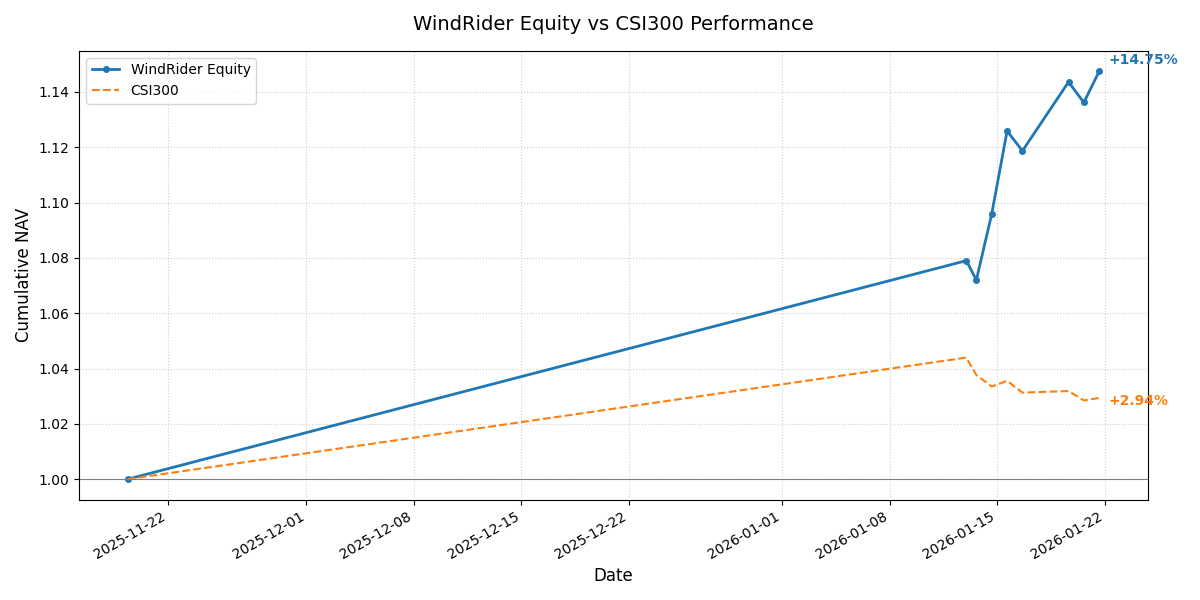
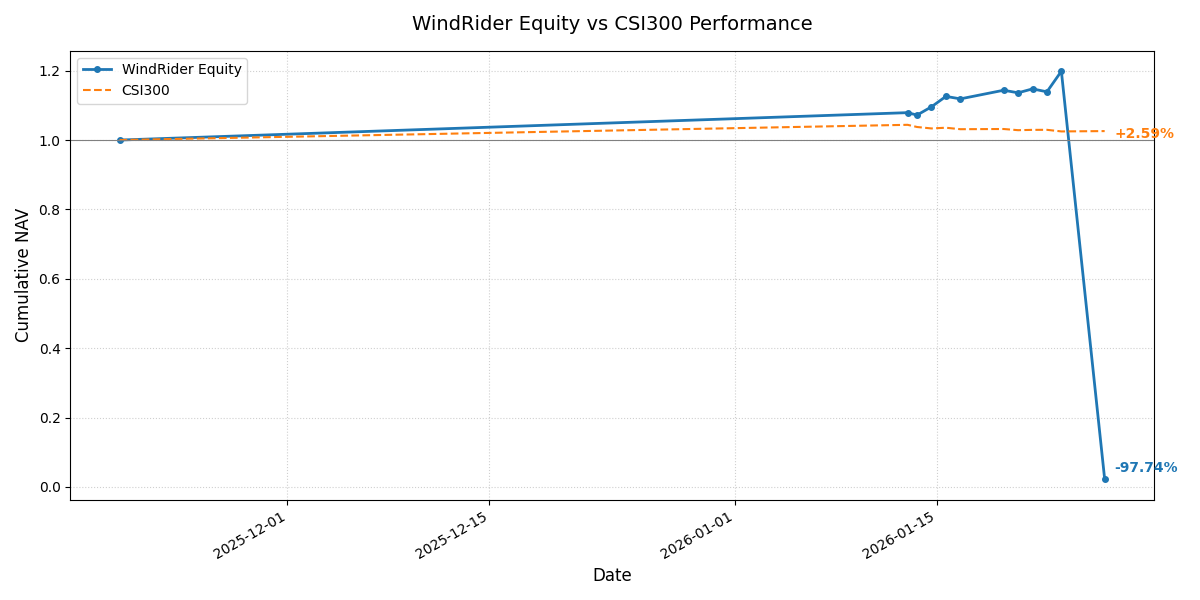
Updated Hugo site content

diff --git a/public/investment/position/index.html b/public/investment/position/index.html
@@ -66,8 +66,8 @@
   <meta property="og:locale" content="zh-cn">
   <meta property="og:type" content="article">
     <meta property="article:section" content="investment">
-    <meta property="article:published_time" content="2026-01-21T15:11:15+08:00">
-    <meta property="article:modified_time" content="2026-01-21T15:11:15+08:00">
+    <meta property="article:published_time" content="2026-01-26T15:55:08+08:00">
+    <meta property="article:modified_time" content="2026-01-26T15:55:08+08:00">
 <meta name="twitter:card" content="summary">
 <meta name="twitter:title" content="持仓 Position">
 <meta name="twitter:description" content="WindRider Stock Portfolio">
@@ -103,11 +103,11 @@
   "keywords": [
     
   ],
-  "articleBody": " 风舵股票组合 /// 每日持仓 WindRider Equity Portfolio 净值简报 (截至: 2026-01-21)\n指数代码： WDR.EQ 成立日期： 2025-11-19 最新净值： 1.1475 今日涨跌： +0.99% ===========================\n核心表现 累计收益： +14.75% 年化收益： +121.91% 最大回撤： -0.65% 基准点位： 4723.07 (CSI300) 策略状态： 运行中 持仓明细 股票名称 成本价 现价 盈亏 占比 先导智能 300450 49.41 58.91 +19.22% 50.7% 新 和 成 002001 24.77 27.49 +10.97% 47.32% 收益率对比曲线 声明：本页面数据为实盘记录，持仓数据每日收盘后更新。\n数据仅供技术交流，不构成投资建议。\n",
-  "wordCount" : "53",
+  "articleBody": " 风舵股票组合 /// 每日持仓 WindRider Equity Portfolio 净值简报 (截至: 2026-01-26)\n指数代码： WDR.EQ 成立日期： 2025-11-19 最新净值： 0.0226 今日涨跌： -98.11% ===========================\n核心表现 累计收益： -97.74% 年化收益： -100.00% 最大回撤： -98.11% 基准点位： 4706.96 (CSI300) 策略状态： 已运行 69 天 持仓明细 股票名称 成本价 现价 盈亏 占比 先导智能 300450 49.41 61.89 +25.25% 51.5% 新 和 成 002001 24.77 28.00 +13.03% 46.6% 收益率对比曲线 声明：本页面数据为实盘记录，持仓数据每日收盘后更新。\n数据仅供技术交流，不构成投资建议。\n",
+  "wordCount" : "55",
   "inLanguage": "zh-cn",
-  "datePublished": "2026-01-21T15:11:15+08:00",
-  "dateModified": "2026-01-21T15:11:15+08:00",
+  "datePublished": "2026-01-26T15:55:08+08:00",
+  "dateModified": "2026-01-26T15:55:08+08:00",
   "mainEntityOfPage": {
     "@type": "WebPage",
     "@id": "https://hankou.com/investment/position/"
@@ -191,7 +191,7 @@
     <div class="post-description">
       WindRider Stock Portfolio
     </div>
-    <div class="post-meta"><span title='2026-01-21 15:11:15 +0800 CST'>January 21, 2026</span>
+    <div class="post-meta"><span title='2026-01-26 15:55:08 +0800 CST'>January 26, 2026</span>
 
 </div>
   </header> 
@@ -200,7 +200,7 @@
 </style>
 <h3 id="风舵股票组合--每日持仓">风舵股票组合   <span style="color: #E63946; font-weight: bold;">/</span><span style="color: #F1A73E; font-weight: bold;">/</span><span style="color: #000091; font-weight: bold;">/</span>   每日持仓<a hidden class="anchor" aria-hidden="true" href="#风舵股票组合--每日持仓">#</a></h3>
 <p>WindRider Equity Portfolio <br>
-净值简报 <small>(截至: 2026-01-21)</small></p>
+净值简报 <small>(截至: 2026-01-26)</small></p>
 <table>
   <thead>
       <tr>
@@ -219,11 +219,11 @@
       </tr>
       <tr>
           <td style="text-align: left"><strong>最新净值：</strong></td>
-          <td style="text-align: left">1.1475</td>
+          <td style="text-align: left">0.0226</td>
       </tr>
       <tr>
           <td style="text-align: left"><strong>今日涨跌：</strong></td>
-          <td style="text-align: left">+0.99%</td>
+          <td style="text-align: left">-98.11%</td>
       </tr>
   </tbody>
 </table>
@@ -238,23 +238,23 @@
   <tbody>
       <tr>
           <td style="text-align: left"><strong>累计收益：</strong></td>
-          <td style="text-align: left">+14.75%</td>
+          <td style="text-align: left">-97.74%</td>
       </tr>
       <tr>
           <td style="text-align: left"><strong>年化收益：</strong></td>
-          <td style="text-align: left">+121.91%</td>
+          <td style="text-align: left">-100.00%</td>
       </tr>
       <tr>
           <td style="text-align: left"><strong>最大回撤：</strong></td>
-          <td style="text-align: left">-0.65%</td>
+          <td style="text-align: left">-98.11%</td>
       </tr>
       <tr>
           <td style="text-align: left"><strong>基准点位：</strong></td>
-          <td style="text-align: left">4723.07 (CSI300)</td>
+          <td style="text-align: left">4706.96 (CSI300)</td>
       </tr>
       <tr>
           <td style="text-align: left"><strong>策略状态：</strong></td>
-          <td style="text-align: left">运行中</td>
+          <td style="text-align: left">已运行 69 天</td>
       </tr>
   </tbody>
 </table>
@@ -274,17 +274,17 @@
       <tr>
           <td style="text-align: left">先导智能 <small>300450</small></td>
           <td style="text-align: left">49.41</td>
-          <td style="text-align: left">58.91</td>
-          <td style="text-align: left"><span style="color:#E63946">+19.22%</span></td>
-          <td style="text-align: left">50.7%</td>
+          <td style="text-align: left">61.89</td>
+          <td style="text-align: left"><span style="color:#E63946">+25.25%</span></td>
+          <td style="text-align: left">51.5%</td>
           <td></td>
       </tr>
       <tr>
           <td style="text-align: left">新 和 成 <small>002001</small></td>
           <td style="text-align: left">24.77</td>
-          <td style="text-align: left">27.49</td>
-          <td style="text-align: left"><span style="color:#E63946">+10.97%</span></td>
-          <td style="text-align: left">47.32%</td>
+          <td style="text-align: left">28.00</td>
+          <td style="text-align: left"><span style="color:#E63946">+13.03%</span></td>
+          <td style="text-align: left">46.6%</td>
           <td></td>
       </tr>
   </tbody>

diff --git a/public/investment/windrider-1/index.html b/public/investment/windrider-1/index.html
@@ -66,8 +66,8 @@
   <meta property="og:locale" content="zh-cn">
   <meta property="og:type" content="article">
     <meta property="article:section" content="investment">
-    <meta property="article:published_time" content="2026-01-21T16:38:38+08:00">
-    <meta property="article:modified_time" content="2026-01-21T16:38:38+08:00">
+    <meta property="article:published_time" content="2026-01-26T15:15:03+08:00">
+    <meta property="article:modified_time" content="2026-01-26T15:15:03+08:00">
 <meta name="twitter:card" content="summary">
 <meta name="twitter:title" content="风舵1号 (WindRider I)  /// 指数">
 <meta name="twitter:description" content="商品期货分形摆动策略实盘">
@@ -103,11 +103,11 @@
   "keywords": [
     
   ],
-  "articleBody": " 风舵1号 (WindRider I) /// 指数 商品期货分形摆动策略实盘\n净值简报 (截至: 2026-01-21)\n指数代码： WDR1.CTA 起步日期： 2026-01-06 最新净值： 1.0631 今日涨跌： -0.64% ===========================\n核心指标 累计涨跌： +6.31% 年化收益： +343.24% 最大回撤： -12.26% 卡玛比率： 28.00 策略状态： 已运行 16 天 净值曲线图 声明：本页面数据为实盘记录，持仓数据每日收盘后更新。\n数据仅供技术交流，不构成投资建议。\n",
+  "articleBody": " 风舵1号 (WindRider I) /// 指数 商品期货分形摆动策略实盘\n净值简报 (截至: 2026-01-26)\n指数代码： WDR1.CTA 起步日期： 2026-01-06 最新净值： 0.8472 今日涨跌： -1.45% ===========================\n核心指标 累计涨跌： -15.28% 年化收益： -95.15% 最大回撤： -20.82% 卡玛比率： -4.57 策略状态： 已运行 21 天 净值曲线图 声明：本页面数据为实盘记录，持仓数据每日收盘后更新。\n数据仅供技术交流，不构成投资建议。\n",
   "wordCount" : "34",
   "inLanguage": "zh-cn",
-  "datePublished": "2026-01-21T16:38:38+08:00",
-  "dateModified": "2026-01-21T16:38:38+08:00",
+  "datePublished": "2026-01-26T15:15:03+08:00",
+  "dateModified": "2026-01-26T15:15:03+08:00",
   "mainEntityOfPage": {
     "@type": "WebPage",
     "@id": "https://hankou.com/investment/windrider-1/"
@@ -191,7 +191,7 @@
     <div class="post-description">
       商品期货分形摆动策略实盘
     </div>
-    <div class="post-meta"><span title='2026-01-21 16:38:38 +0800 CST'>January 21, 2026</span>
+    <div class="post-meta"><span title='2026-01-26 15:15:03 +0800 CST'>January 26, 2026</span>
 
 </div>
   </header> 
@@ -203,7 +203,7 @@
 </style>
 <h3 id="风舵1号-windrider-i--指数">风舵1号 (WindRider I)   <span style="color: #E63946; font-weight: bold;">/</span><span style="color: #F1A73E; font-weight: bold;">/</span><span style="color: #000091; font-weight: bold;">/</span>   指数<a hidden class="anchor" aria-hidden="true" href="#风舵1号-windrider-i--指数">#</a></h3>
 <p>商品期货分形摆动策略实盘<br>
-净值简报 <small>(截至: 2026-01-21)</small></p>
+净值简报 <small>(截至: 2026-01-26)</small></p>
 <table>
   <thead>
       <tr>
@@ -222,11 +222,11 @@
       </tr>
       <tr>
           <td style="text-align: left"><strong>最新净值：</strong></td>
-          <td style="text-align: left">1.0631</td>
+          <td style="text-align: left">0.8472</td>
       </tr>
       <tr>
           <td style="text-align: left"><strong>今日涨跌：</strong></td>
-          <td style="text-align: left">-0.64%</td>
+          <td style="text-align: left">-1.45%</td>
       </tr>
   </tbody>
 </table>
@@ -241,23 +241,23 @@
   <tbody>
       <tr>
           <td style="text-align: left"><strong>累计涨跌：</strong></td>
-          <td style="text-align: left">+6.31%</td>
+          <td style="text-align: left">-15.28%</td>
       </tr>
       <tr>
           <td style="text-align: left"><strong>年化收益：</strong></td>
-          <td style="text-align: left">+343.24%</td>
+          <td style="text-align: left">-95.15%</td>
       </tr>
       <tr>
           <td style="text-align: left"><strong>最大回撤：</strong></td>
-          <td style="text-align: left">-12.26%</td>
+          <td style="text-align: left">-20.82%</td>
       </tr>
       <tr>
           <td style="text-align: left"><strong>卡玛比率：</strong></td>
-          <td style="text-align: left">28.00</td>
+          <td style="text-align: left">-4.57</td>
       </tr>
       <tr>
           <td style="text-align: left"><strong>策略状态：</strong></td>
-          <td style="text-align: left">已运行 16 天</td>
+          <td style="text-align: left">已运行 21 天</td>
       </tr>
   </tbody>
 </table>

diff --git a/public/investment/index.html b/public/investment/index.html
@@ -146,26 +146,26 @@
 
 <article class="post-entry"> 
   <header class="entry-header">
-    <h2 class="entry-hint-parent">风舵1号 (WindRider I)  /// 指数
-    </h2>
-  </header>
-  <div class="entry-content">
-    <p>商品期货分形摆动策略，实盘最新净值与核心风险指标。</p>
-  </div>
-  <footer class="entry-footer"><span title='2026-01-21 16:38:38 +0800 CST'>January 21, 2026</span></footer>
-  <a class="entry-link" aria-label="post link to 风舵1号 (WindRider I)  /// 指数" href="https://hankou.com/investment/windrider-1/"></a>
-</article>
-
-<article class="post-entry"> 
-  <header class="entry-header">
     <h2 class="entry-hint-parent">持仓 Position
     </h2>
   </header>
   <div class="entry-content">
     <p>主动管理型股票组合。对标沪深300指数，采用基本面选股策略。</p>
   </div>
-  <footer class="entry-footer"><span title='2026-01-21 15:11:15 +0800 CST'>January 21, 2026</span></footer>
+  <footer class="entry-footer"><span title='2026-01-26 15:55:08 +0800 CST'>January 26, 2026</span></footer>
   <a class="entry-link" aria-label="post link to 持仓 Position" href="https://hankou.com/investment/position/"></a>
+</article>
+
+<article class="post-entry"> 
+  <header class="entry-header">
+    <h2 class="entry-hint-parent">风舵1号 (WindRider I)  /// 指数
+    </h2>
+  </header>
+  <div class="entry-content">
+    <p>商品期货分形摆动策略，实盘最新净值与核心风险指标。</p>
+  </div>
+  <footer class="entry-footer"><span title='2026-01-26 15:15:03 +0800 CST'>January 26, 2026</span></footer>
+  <a class="entry-link" aria-label="post link to 风舵1号 (WindRider I)  /// 指数" href="https://hankou.com/investment/windrider-1/"></a>
 </article>
 
 <article class="post-entry"> 

diff --git a/content/investment/position.md b/content/investment/position.md
@@ -1,8 +1,8 @@
 +++
 title = "持仓 Position"
 summary = "主动管理型股票组合。对标沪深300指数，采用基本面选股策略。"
-date = 2026-01-26T15:55:08+08:00
-lastmod = 2026-01-26T15:55:08+08:00
+date = 2026-01-26T15:59:53+08:00
+lastmod = 2026-01-26T15:59:53+08:00
 draft = false
 description = "WindRider Stock Portfolio"
 +++
@@ -28,14 +28,14 @@ WindRider Equity Portfolio <br>
 | **累计收益：** | -97.74% |
 | **年化收益：** | -100.00% |
 | **最大回撤：** | -98.11% |
-| **基准点位：** | 4706.96 (CSI300) |
+| **基准点位：** | 0.00 (CSI300) |
 | **策略状态：** | 已运行 69 天 |
 
 ### 持仓明细
 | 股票名称 | 成本价 | 现价 | 盈亏 | 占比 |
 | :--- | :--- | :--- | :--- | :--- | :--- |
-| 先导智能 <small>300450</small> | 49.41 | 61.89 | <span style="color:#E63946">+25.25%</span> | 51.5% |
-| 新 和 成 <small>002001</small> | 24.77 | 28.00 | <span style="color:#E63946">+13.03%</span> | 46.6% |
+| Unknown <small>300450</small> | 49.41 | 0.00 | <span style="color:#2A9D8F">-100.00%</span> | 0.0% |
+| Unknown <small>002001</small> | 24.77 | 0.00 | <span style="color:#2A9D8F">-100.00%</span> | 0.0% |
 
 <br>
 
